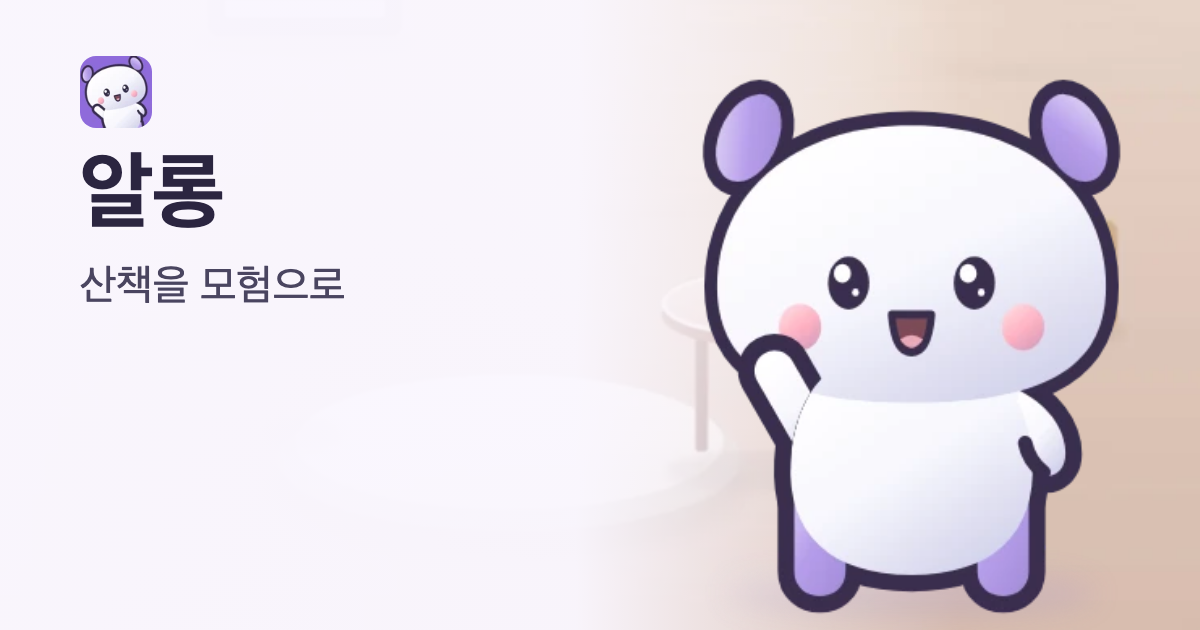
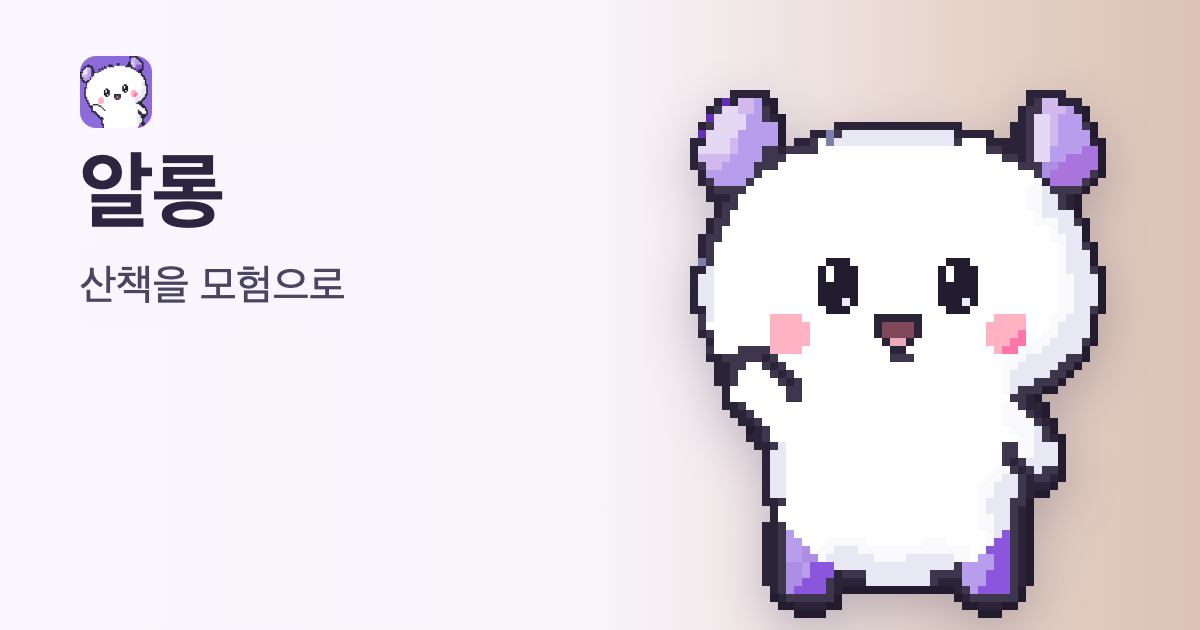
출시 전 공개판 배포 (원본 allong-site be1fc2b)

Changed region(s): [[0.555, 0.1206, 0.9558, 0.9952], [0.0617, 0.0905, 0.1233, 0.2111]]

diff --git a/style.css b/style.css
@@ -45,7 +45,7 @@ h3{font-size:1.25rem;line-height:1.3;margin:0 0 6px}
 /* 첫 화면 */
 .hero{position:relative;overflow:hidden;color:var(--on-d);background:radial-gradient(120% 70% at 78% 28%,var(--hero1) 0,transparent 60%),linear-gradient(165deg,var(--hero2),var(--hero3))}
 .hero-in{max-width:1240px;margin:0 auto;padding:86px 20px 0;display:flex;flex-direction:column;align-items:center;text-align:center}
-.face{order:-1;width:min(52vw,214px);height:auto;position:relative;z-index:3;margin:0 0 18px;filter:drop-shadow(0 14px 22px rgba(20,8,60,.35))}
+.face{order:-1;width:192px;height:auto;image-rendering:pixelated;position:relative;z-index:3;margin:0 0 18px;filter:drop-shadow(0 14px 22px rgba(20,8,60,.35))}
 h1{font-size:clamp(4rem,19vw,8.5rem);line-height:1;margin:0;letter-spacing:-.02em;text-shadow:0 6px 30px rgba(20,8,60,.35)}
 .tagline{font-size:clamp(1.4rem,6vw,2.1rem);margin:8px 0 22px;color:var(--on-d-sub);line-height:1.3}
 .hero-text{display:flex;flex-direction:column;align-items:center;position:relative;z-index:2}
@@ -135,7 +135,7 @@ footer small{opacity:.7}
 /* 언어 선택 입구(/) */
 body.picker{background:linear-gradient(165deg,var(--hero2),var(--hero3));color:#fff;min-height:100vh}
 body.picker main{max-width:640px;margin:0 auto;padding:48px 20px;text-align:center}
-.pk-allong{width:150px;height:auto}
+.pk-allong{width:192px;height:auto;image-rendering:pixelated}
 body.picker h1{font-size:3.4rem}
 body.picker ul{list-style:none;padding:0;margin:24px 0 0;display:grid;grid-template-columns:repeat(auto-fill,minmax(140px,1fr));gap:10px}
 body.picker a{display:flex;justify-content:center;align-items:center;min-height:48px;border:1px solid rgba(255,255,255,.35);border-radius:14px;color:#fff;text-decoration:none;background:rgba(255,255,255,.08)}
@@ -152,7 +152,7 @@ body.picker a{display:flex;justify-content:center;align-items:center;min-height:
  .hero-ph .p1{margin-left:-120px}
  .hero-ph .p2{--pw:290px;margin-left:80px;top:60px}
  .hero-text{grid-area:1/1}
- .face{grid-area:1/2;order:0;align-self:end;justify-self:start;width:400px;margin:0 0 6px -90px;z-index:4}
+ .face{grid-area:1/2;order:0;align-self:end;justify-self:start;width:384px;margin:0 0 6px -82px;z-index:4}
   .feat-in{display:grid;grid-template-columns:1fr 1fr;gap:40px;align-items:center;text-align:left;padding:96px 32px 0;min-height:700px}
  .feat-txt .spr{margin:28px 0 0}
  .feat-ph{height:620px;gap:32px;align-self:end}
